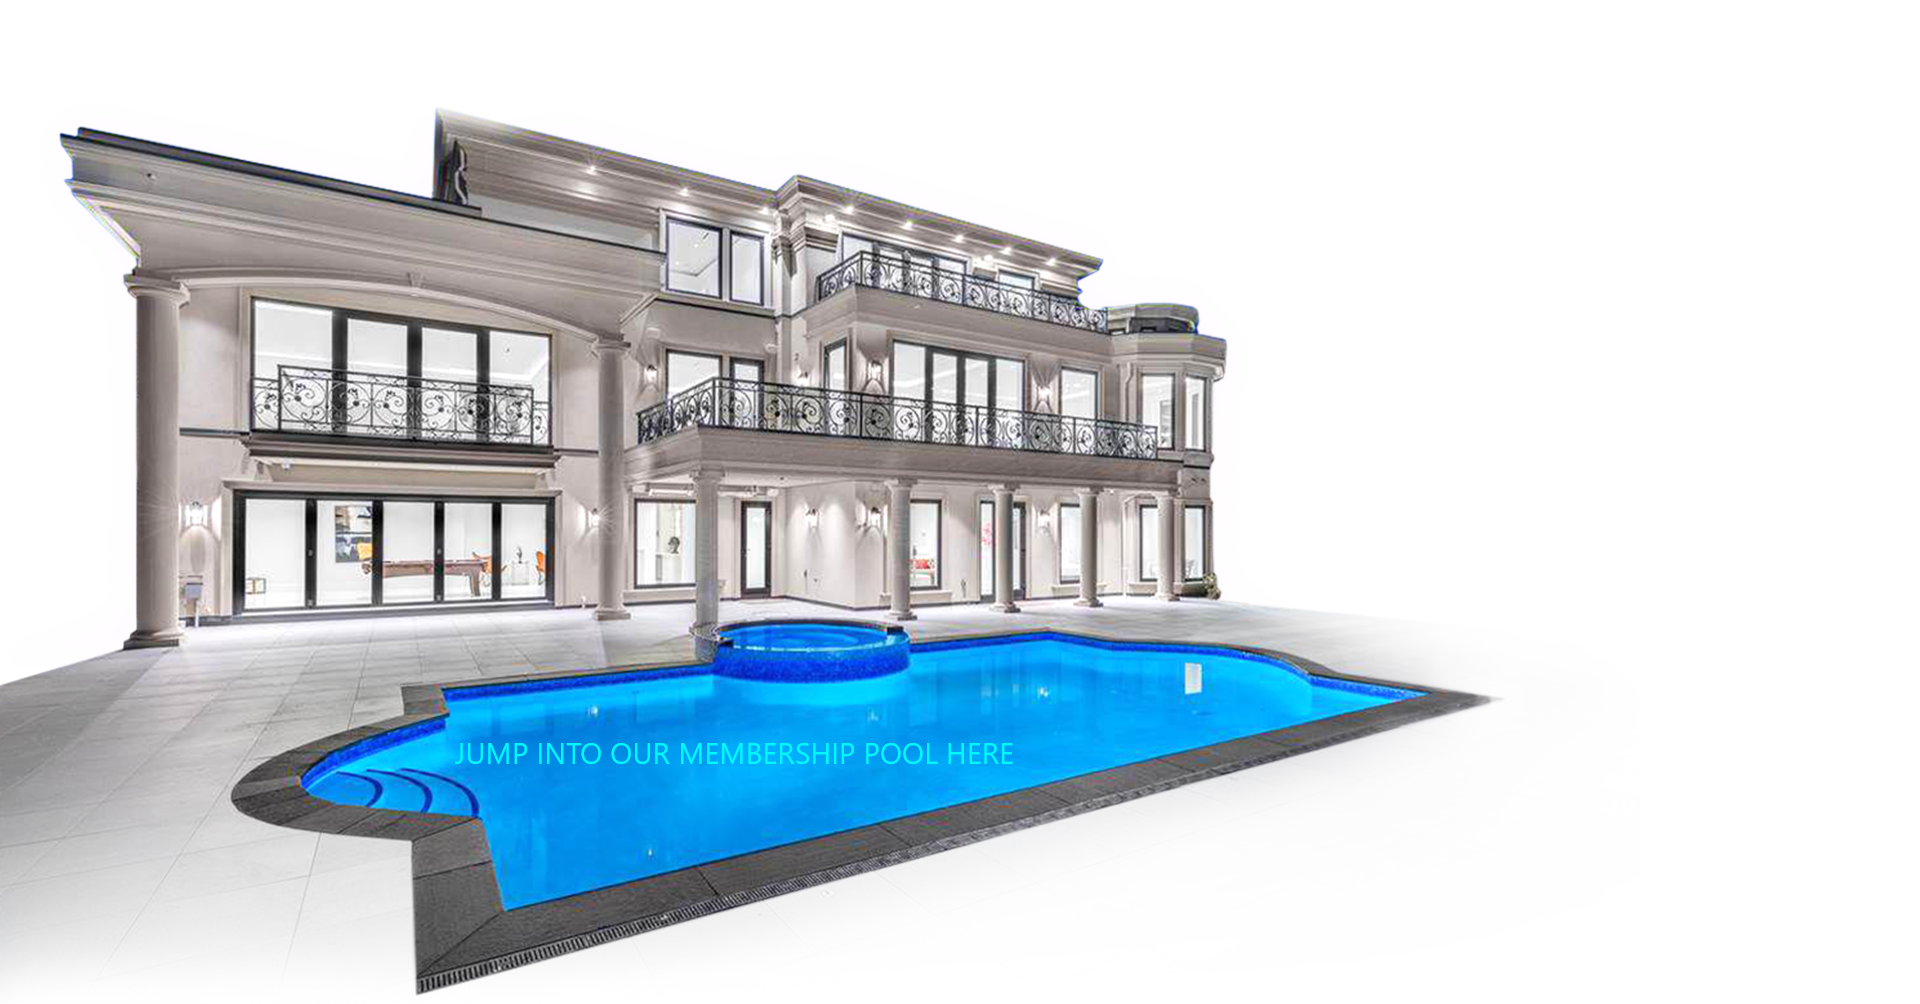
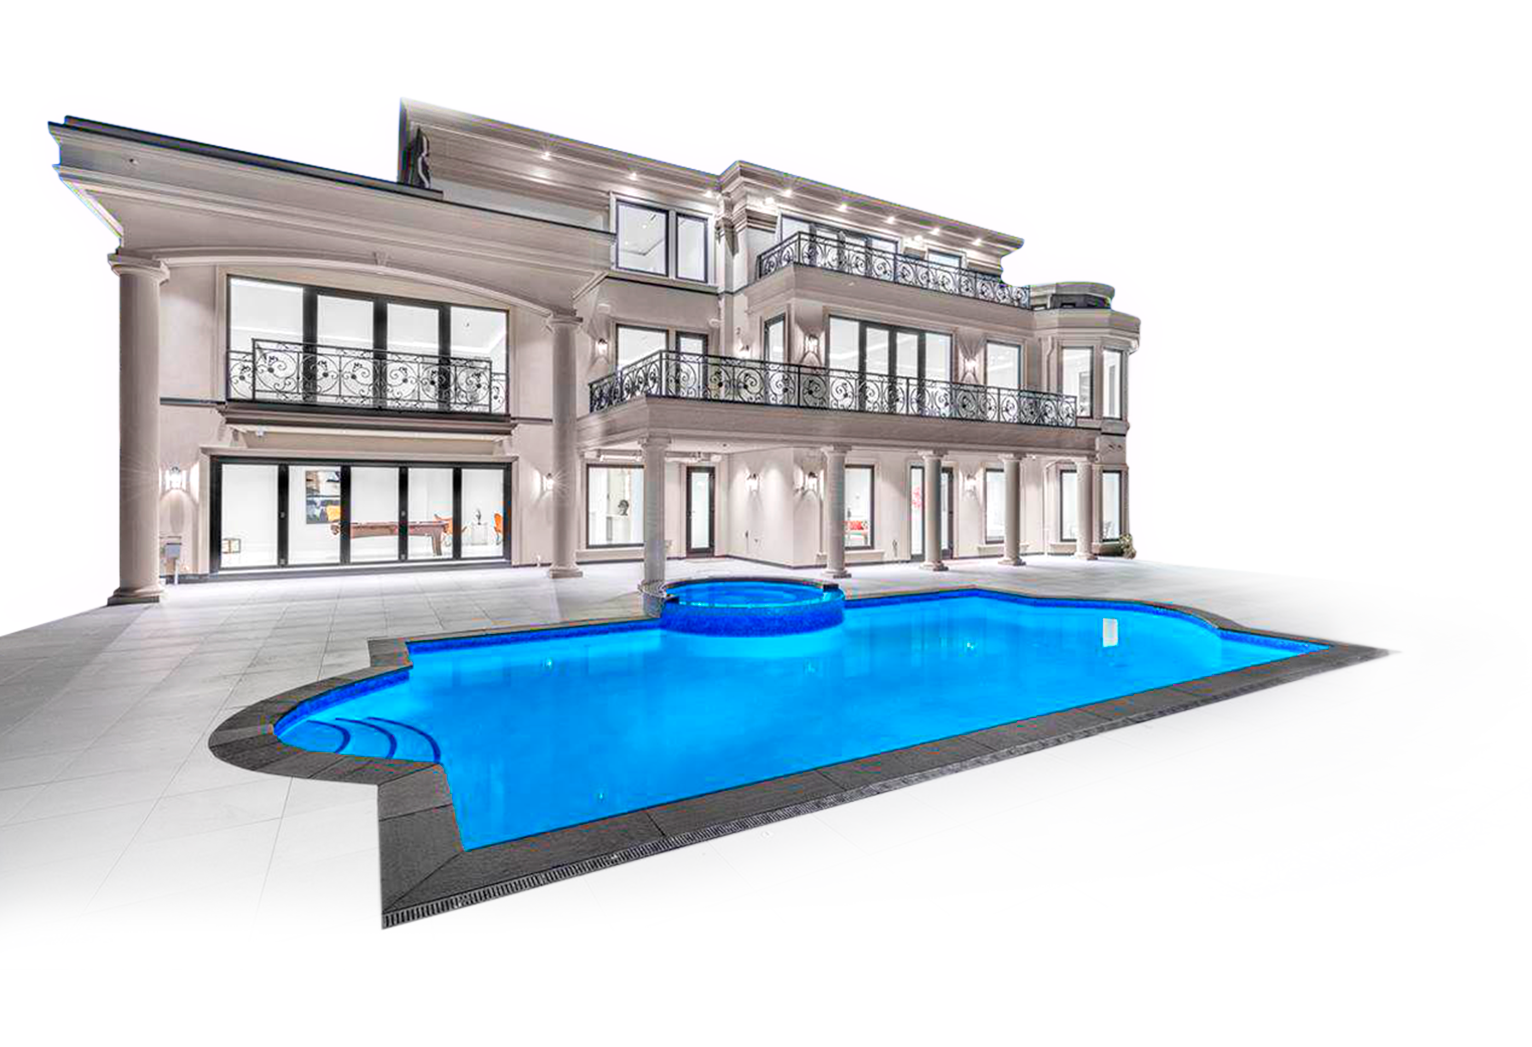
last changes

diff --git a/index.html b/index.html
@@ -62,7 +62,7 @@
                 <select>
                     <option value="">EN</option>
                     <option value="">RU</option>
-                </select>f
+                </select>
             </div>
         </div>
     </header>
@@ -78,23 +78,24 @@
                                 <hr class="after-header">
                             </div>
                             <div class="grid grid-dir-column grid-al-end cover-logo">
-                                <img src="./assets/images/MP200X.png" alt="">
+                                <img class="mp-img" src="./assets/images/MP200X.png" alt="">
                                 <div class="whitelisting white-bordered but">
                                     <a href="#">WHITELISTING</a>
                                 </div>
                             </div>
                         </div>
+                        <div class="grid grid-jus-center bonus-pool">
+                            <a href="#">Bonus pool</a>
+                        </div>
                         <div class="cover-footer grid grid-jus-end">
                             <div class="grid grid-jus-end">
-                                <a class="link" href="#"
-                                    onmouseover="document.getElementById('visitImg').src='./assets/images/Hicon.png'"
-                                    onmouseout="document.getElementById('visitImg').src='./assets/images/home_icon.png'">
+                                <a class="link visit" href="#">
                                     <div class=" grid grid-al-center">
                                         <div class="text-center ml-15 mr-10">
                                             <span>VISIT</span>
                                             <span class="bold">INDUSTRY SITE</span>
                                         </div>
-                                        <img id="visitImg" src="./assets/images/home_icon.png">
+                                        <div class="img"></div>
                                     </div>
                                 </a>
                             </div>
@@ -176,10 +177,10 @@
                                                 onmouseout="this.src='./assets/images/lamgo-btn.png'" />
                                             <p class="text-center">
                                         </a>
-                                        All members have real opportunities for rewards at airdrop and bonus days.
+                                        <div class="mt-20">All members have real opportunities for rewards at airdrop and bonus days.
                                         The
                                         Members reward budget is unprecendented.
-                                        </p>
+                                        </p></div>
                                     </div>
                                 </div>
                                 <div class="right-half">
@@ -201,7 +202,7 @@
                                                     onmouseout="this.src='./assets/images/tesla-btn.png'" />
                                             </a>
                                         </div>
-                                        <p class="text-center">
+                                        <p class="mt-20 text-center">
                                             Mambers now have the unprecedented opportunity to be part of a new, world
                                             changing industry.
                                         </p>

diff --git a/css/style.css b/css/style.css
@@ -142,12 +142,14 @@ main .canc {
 }
 
 .main-cover {
-    background: linear-gradient(186deg, rgba(155, 36, 226, 0.45) 20%, rgba(155, 36, 226, 0.5) 28%, rgba(155, 36, 226, 0));
+    /* background: linear-gradient(186deg, rgba(155, 36, 226, 0.45) 20%, rgba(155, 36, 226, 0.5) 28%, rgba(155, 36, 226, 0)); */
+    background: linear-gradient(186deg, rgba(255, 0, 188, 0.3) 20%, rgba(255, 0, 200, 0.2) 28%, transparent);
+
 }
 
 main .main-cover .home {
     background-image: url(../assets/images/home.png);
-    background-size: 100% auto;
+    background-size: 83% auto;
     background-repeat: no-repeat;
 }
 
@@ -170,11 +172,40 @@ main .main-cover .home {
     border-top: 1px solid white;
 }
 
+.home .bonus-pool a{
+    color: #00E8FD;
+    
+    padding: 5px 10px;
+    text-transform: uppercase;
+    font-size: 25px;
+    font-weight: 700;
+    margin-top: 100px;
+}
+.home .bonus-pool a:hover{
+    border: 1px solid #00E8FD;
+}
+.home .cover-logo{
+    /* perspective: 1000px; */
+}
+.home .mp-img{
+    transition: 0.5s;   
+    width: 300px;
+    margin-bottom: 30px;
+    /* transform: rotateY(-40deg) ; */
+    transform: perspective(900px) rotate3d(0,30,0,-45deg);
+
+}
+.home .mp-img:hover{
+    /* transform: rotateY(0deg) ; */
+    transform: perspective(900px) rotate3d(0,0,0,0deg);
+
+}
+
 main .main-cover .container {
     background-color: rgba(255, 255, 255, 0.20);
     padding-top: 40px;
     padding-bottom: 0;
-    height: 60vw;
+    height: 52vw;
 }
 
 main .main-cover .container .cover-text .text {
@@ -222,6 +253,17 @@ main .main-cover .cover-footer .link img {
 main .main-cover .cover-footer .link .right{
     font-size: 20px;
     margin-right: 10px;
+}
+
+main .main-cover .cover-footer .visit .img{
+    width: 30px;
+    height: 30px;
+    background-image: url(../assets/images/home_icon.png);
+    background-size: contain;
+    background-repeat: no-repeat;
+}
+main .main-cover .cover-footer .visit:hover .img{
+    background-image: url(../assets/images/Hicon.png);
 }
 
 main .container {
@@ -328,11 +370,11 @@ main .footer .airdrops-img:hover {
     height: 3px;
 }
 .main-timer .timer .wrapper{
-    box-shadow: 0px 0px 50px 10px rgb(173,59,232);
+    box-shadow: 0px 0px 20px 3px rgb(255,255,255);
 }
 
 .timer .wrapper {
-    background-color: rgba(0,0,0, 0.08);
+    background-color: rgba(128,8,214, 0.8);
     padding: 20px 30px;
 }
 
@@ -368,7 +410,18 @@ main .footer .airdrops-img:hover {
     margin-bottom: 6px;
     color: white;
     font-weight: 800;
-    text-shadow: 0px 0px 5px rgb(173,59,232);
+     text-shadow: 2px 0 0 black, 
+                -2px 0 0 black,
+                 0 2px 0 black, 
+                 0 -2px 0 black, 
+                 1px 1px black, 
+                 -1px -1px 0 black, 
+                 1px -1px 0 black, 
+                 -1px 1px 0 black, 
+                 10px 10px 30px white, 
+                 -10px -10px 30px white, 
+                 10px -10px 30px white, 
+                 -10px 10px 30px white; 
 }
 
 .timer .wrapper .content .dot {
@@ -476,7 +529,7 @@ hr.after-title {
 }
 
 .homing-header{
-    color:#ba3eed;
+    color:#D749F1;
     font-weight: 100;
     text-align: center;
     font-size: 35px;
@@ -485,6 +538,8 @@ hr.after-title {
 
 hr.after-header {
     border: 0;
-    height: 1px;
-    background-image: linear-gradient(to right, rgba(255,255, 255, 0), #ba3eed, rgba(255,255, 255, 0));
+    height: 2px;
+    background-image: linear-gradient(to right, transparent, #D749F1 70%, transparent );
+    width: 50%;
+    margin: 0 auto;
 }

diff --git a/css/bounties.css b/css/bounties.css
@@ -58,7 +58,7 @@
 
 .baunties-container .logos .logo-background {
     padding: 10px 0;
-    background-image: url(../assets/images/logos-background.png);
+    background: linear-gradient(to right, transparent, rgba(255,255,255,0.15), transparent)
 }
 
 .baunties-container .vpn-logos,
